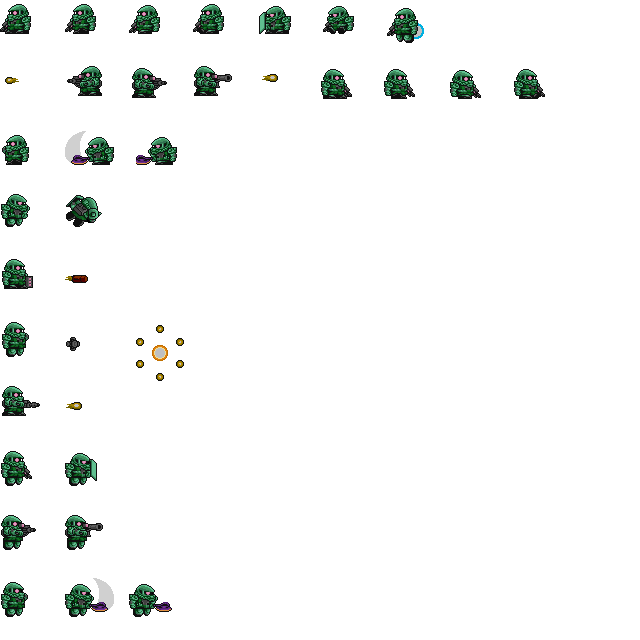
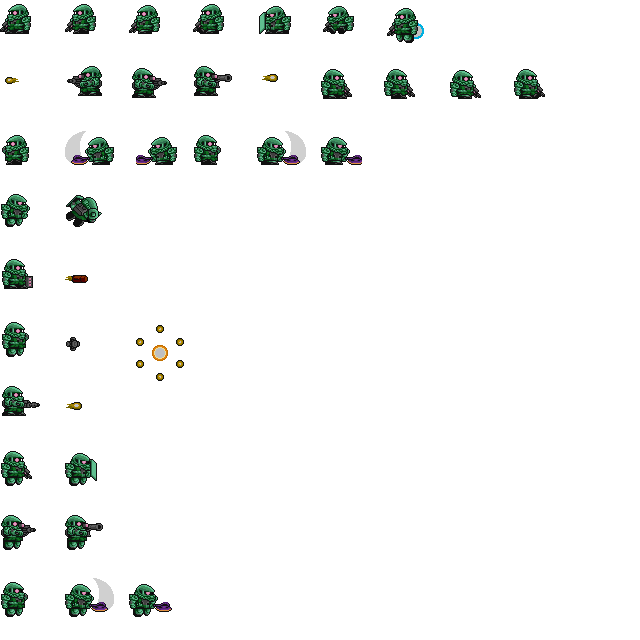
Game is now pausible, added background for pausemenu, corrected melee attacking for both player and AI

Changed region(s): [[0.4062, 0.1875, 0.5625, 0.2812], [0.2812, 0.1875, 0.3438, 0.2812]]

diff --git a/GundamSD/Models/ModelWeapons/MeleeWeapon.cs b/GundamSD/Models/ModelWeapons/MeleeWeapon.cs
@@ -1,4 +1,5 @@
-using System.Collections.Generic;
+using System;
+using System.Collections.Generic;
 using GundamSD.Maps;
 using Microsoft.Xna.Framework;
 
@@ -8,11 +9,14 @@ namespace GundamSD.Models
     {
         private Rectangle _hitBox;
         public virtual Rectangle HitBox { get => _hitBox; }
-        public List<int> AttackFrames { get; set; }
 
-        public MeleeWeapon(ISprite sprite, int damage, int range, List<int> attackFrames) : base(sprite, damage, range)
+        public List<int> AttackFramesRight { get; set; }
+        public List<int> AttackFramesLeft { get; set; }
+
+        public MeleeWeapon(ISprite sprite, int damage, int range, List<int> attackFramesRight, List<int> attackFramesLeft) : base(sprite, damage, range)
         {
-            AttackFrames = attackFrames;
+            AttackFramesRight = attackFramesRight;
+            AttackFramesLeft = attackFramesLeft;
         }
 
         public override void DealDamage(MapManager mapManager, GameTime gameTime)
@@ -20,16 +24,18 @@ namespace GundamSD.Models
             if (Sprite is IHasInput hasInput && hasInput.Inputs.KeyIsHoldDown(hasInput.Inputs.Melee))
             {
                 Sprite.AtlasManager.IsMeleeAttacking = true;
-                _hitBox = new Rectangle(Sprite.HitBox.X, Sprite.HitBox.Y,
-                                        Sprite.HitBox.Width + Range, Sprite.HitBox.Height);
+
+                GenerateHitbox();
+
+                List<int> attackFrames = DetermineAttackFrames();
 
                 ISprite target = Sprite.CollisionHandler.GetOtherSprite(_hitBox, mapManager);
 
                 if (target is IHasHealth hasHealth)
                 {
-                    for (int i = 0; i < AttackFrames.Count; i++)
+                    for (int i = 0; i < attackFrames.Count; i++)
                     {
-                        if (AttackFrames[i] == Sprite.AtlasManager.AtlasPlayer.CurrentFrame && target != null)
+                        if (attackFrames[i] == Sprite.AtlasManager.AtlasPlayer.CurrentFrame && target != null)
                         {
                             hasHealth.HealthHandler.TakeDamage(Damage);
 
@@ -46,6 +52,29 @@ namespace GundamSD.Models
             else
             {
                 Sprite.AtlasManager.IsMeleeAttacking = false ;
+            }
+        }
+
+        public List<int> DetermineAttackFrames()
+        {
+            if (Sprite.Mover.IsMovingRight)
+                return AttackFramesRight;
+            else
+                return AttackFramesLeft;
+
+        }
+
+        public virtual void GenerateHitbox()
+        {
+            if (Sprite.Mover.IsMovingRight)
+            {
+                _hitBox = new Rectangle(Sprite.HitBox.X, Sprite.HitBox.Y,
+                                    Sprite.HitBox.Width + Range, Sprite.HitBox.Height);
+            }
+            else if (Sprite.Mover.IsMovingLeft)
+            {
+                _hitBox = new Rectangle(Sprite.HitBox.X - Range, Sprite.HitBox.Y,
+                                    Sprite.HitBox.Width + Range, Sprite.HitBox.Height);
             }
         }
     }

diff --git a/GundamSD/Models/ModelWeapons/MeleeWeaponAI.cs b/GundamSD/Models/ModelWeapons/MeleeWeaponAI.cs
@@ -1,4 +1,5 @@
-using System.Collections.Generic;
+using System;
+using System.Collections.Generic;
 using GundamSD.Maps;
 using Microsoft.Xna.Framework;
 
@@ -9,15 +10,14 @@ namespace GundamSD.Models
         private Rectangle _hitBox;
         public override Rectangle HitBox { get => _hitBox; }
 
-        public MeleeWeaponAI(ISprite sprite, int damage, int range, List<int> attackFrames) : base(sprite, damage, range, attackFrames)
+        public MeleeWeaponAI(ISprite sprite, int damage, int range, List<int> attackFramesRight, List<int> attackFramesLeft) : base(sprite, damage, range, attackFramesRight, attackFramesLeft)
         {
         }
 
         public override void DealDamage(MapManager mapManager, GameTime gameTime)
         {
-            //Sprite.AtlasManager.IsMeleeAttacking = true;
-            _hitBox = new Rectangle(Sprite.HitBox.X - Range, Sprite.HitBox.Y,
-                                        Sprite.HitBox.Width + Range, Sprite.HitBox.Height);
+            Console.WriteLine("Moving right: " + Sprite.Mover.IsMovingRight + "   Moving left: " + Sprite.Mover.IsMovingLeft);
+            GenerateHitbox();
 
             ISprite target = Sprite.CollisionHandler.GetOtherSprite(_hitBox, mapManager);
 
@@ -25,9 +25,11 @@ namespace GundamSD.Models
             {
                 Sprite.AtlasManager.IsMeleeAttacking = true;
 
-                for (int i = 0; i < AttackFrames.Count; i++)
+                List<int> attackFrames = DetermineAttackFrames();
+
+                for (int i = 0; i < attackFrames.Count; i++)
                 {
-                    if (AttackFrames[i] == Sprite.AtlasManager.AtlasPlayer.CurrentFrame && target != null)
+                    if (attackFrames[i] == Sprite.AtlasManager.AtlasPlayer.CurrentFrame && target != null)
                     {
                         hasHealth.HealthHandler.TakeDamage(Damage);
 
@@ -40,6 +42,20 @@ namespace GundamSD.Models
                 //base.DealDamage(mapManager);
             } else
                 Sprite.AtlasManager.IsMeleeAttacking = false;
+        }
+
+        public override void GenerateHitbox()
+        {
+            if (Sprite.Mover.IsMovingRight)
+            {
+                _hitBox = new Rectangle(Sprite.HitBox.X, Sprite.HitBox.Y,
+                                    Sprite.HitBox.Width + Range, Sprite.HitBox.Height);
+            }
+            else if (Sprite.Mover.IsMovingLeft)
+            {
+                _hitBox = new Rectangle(Sprite.HitBox.X - Range, Sprite.HitBox.Y,
+                                    Sprite.HitBox.Width + Range, Sprite.HitBox.Height);
+            }
         }
     }
 }

diff --git a/GundamSD/StateManagement/GameStates/PauseMenu.cs b/GundamSD/StateManagement/GameStates/PauseMenu.cs
@@ -1,0 +1,86 @@
+using System;
+using System.Collections.Generic;
+using System.Linq;
+using System.Text;
+using System.Threading.Tasks;
+using GundamSD.UI;
+using Microsoft.Xna.Framework;
+using Microsoft.Xna.Framework.Content;
+using Microsoft.Xna.Framework.Graphics;
+
+namespace GundamSD.StateManagement.GameStates
+{
+    public class PauseMenu : GameState
+    {
+        private Texture2D _background;
+        private List<Button> _buttons;
+
+        public PauseMenu(Game1 game, GraphicsDevice graphicsDevice, GraphicsDeviceManager graphicsDeviceManager) : base(game, graphicsDevice, graphicsDeviceManager)
+        {
+        }
+
+        public override void Initialize()
+        {
+            if (!Game.IsMouseVisible)
+            {
+                Game.IsMouseVisible = true;
+            }
+        }
+
+        public override void LoadContent(ContentManager content)
+        {
+            _background = content.Load<Texture2D>("UI/PauseMenuBackground");
+
+            Texture2D btnTexture = content.Load<Texture2D>("UI/Button");
+            SpriteFont font = content.Load<SpriteFont>("Font");
+
+            Button resumeGameBtn = new Button(btnTexture, font, "Resume", new Vector2(950, 150));
+            resumeGameBtn.Click += ResumeGameBtn_Click;
+
+            Button quitBtn = new Button(btnTexture, font, "Quit", new Vector2(950, 350));
+            quitBtn.Click += QuitBtn_Click;
+
+            _buttons = new List<Button>()
+            {
+                resumeGameBtn,
+                quitBtn
+            };
+        }
+
+        private void QuitBtn_Click(object sender, EventArgs e)
+        {
+            Game.Exit();
+        }
+
+        private void ResumeGameBtn_Click(object sender, EventArgs e)
+        {
+            GameStateManager.Instance.RemoveState();
+        }
+
+        public override void UnloadContent()
+        {
+        }
+
+        public override void Update(GameTime gameTime)
+        {
+            foreach (Button btn in _buttons)
+            {
+                btn.Update(gameTime);
+            }
+        }
+
+        public override void Draw(SpriteBatch spriteBatch)
+        {
+            spriteBatch.Begin();
+
+            spriteBatch.Draw(_background, new Rectangle(0, 0, 1600, 800), Color.DimGray);
+
+            foreach (Button btn in _buttons)
+            {
+                btn.Draw(spriteBatch);
+            }
+
+            spriteBatch.End();
+        }
+    }
+}

diff --git a/GundamSD/Models/Player/Player.cs b/GundamSD/Models/Player/Player.cs
@@ -28,7 +28,8 @@ namespace GundamSD.Models
             IAnimationAtlasAction WalkRight = Factory.CreateAnimAtlasAction(0, 3, false);
             IAnimationAtlasAction WalkLeft = Factory.CreateAnimAtlasAction(15, 18, false);
             IAnimationAtlasAction Jump = Factory.CreateAnimAtlasAction(5, 7, true);
-            IAnimationAtlasAction Melee = Factory.CreateAnimAtlasAction(30, 38, false);
+            IAnimationAtlasAction MeleeRight = Factory.CreateAnimAtlasAction(30, 38, false);
+            IAnimationAtlasAction MeleeLeft = Factory.CreateAnimAtlasAction(90, 98, false);
             IAnimationAtlasAction BlockRight = Factory.CreateAnimAtlasAction(4, 4, true);
             IAnimationAtlasAction BlockLeft = Factory.CreateAnimAtlasAction(14, 14, true);
             IAnimationAtlasAction RangedRight = Factory.CreateAnimAtlasAction(10, 10, true);
@@ -38,7 +39,8 @@ namespace GundamSD.Models
                 { "WalkRight", WalkRight },
                 { "WalkLeft", WalkLeft },
                 { "Jump", Jump },
-                { "Melee", Melee },
+                { "MeleeRight", MeleeRight },
+                { "MeleeLeft", MeleeLeft },
                 { "RangedRight", RangedRight },
                 { "RangedLeft", RangedLeft },
                 { "BlockRight", BlockRight },
@@ -50,8 +52,9 @@ namespace GundamSD.Models
             MaxHealth = 100;
             HealthHandler = Factory.CreateHealthHandler(this, Color.Green);
 
-            List<int> attackFrames = new List<int>() { 31, 34, 37 };
-            MeleeWeapon = new MeleeWeapon(this, 1, 20, attackFrames);
+            List<int> attackFramesRight = new List<int>() { 31, 34, 37 };
+            List<int> attackFramesLeft = new List<int>() { 91, 94, 97 };
+            MeleeWeapon = new MeleeWeapon(this, 1, 20, attackFramesRight, attackFramesLeft);
 
             RangedWeapon = new RangedWeapon(this, 10, 20, 300f);
 

diff --git a/GundamSD/Models/Enemies/GruntMelee.cs b/GundamSD/Models/Enemies/GruntMelee.cs
@@ -18,13 +18,16 @@ namespace GundamSD.Models
 
         public GruntMelee(Texture2D atlasTexture) : base(atlasTexture)
         {
-            IAnimationAtlasAction Melee = Factory.CreateAnimAtlasAction(20, 22, false);
-            Actions.Add("Melee", Melee);
+            IAnimationAtlasAction MeleeRight = Factory.CreateAnimAtlasAction(23, 25, false);
+            IAnimationAtlasAction MeleeLeft = Factory.CreateAnimAtlasAction(20, 22, false);
+            Actions.Add("MeleeRight", MeleeRight);
+            Actions.Add("MeleeLeft", MeleeLeft);
 
             Mover = new MoverAI(this, false);
 
-            List<int> AttackFrames = new List<int>() { 21 };
-            MeleeWeapon = new MeleeWeaponAI(this, 1, 20, AttackFrames);
+            List<int> attackFramesRight = new List<int>() { 24 };
+            List<int> attackFramesLeft = new List<int>() { 21 };
+            MeleeWeapon = new MeleeWeaponAI(this, 1, 20, attackFramesRight, attackFramesLeft);
         }
 
         public override void Update(GameTime gameTime, MapManager mapManager)

diff --git a/GundamSD/StateManagement/GameStates/TutorialLevel.cs b/GundamSD/StateManagement/GameStates/TutorialLevel.cs
@@ -9,6 +9,7 @@ using GundamSD.Models;
 using Microsoft.Xna.Framework;
 using Microsoft.Xna.Framework.Content;
 using Microsoft.Xna.Framework.Graphics;
+using Microsoft.Xna.Framework.Input;
 using TiledSharp;
 
 namespace GundamSD.StateManagement.GameStates
@@ -77,6 +78,13 @@ namespace GundamSD.StateManagement.GameStates
 
             _camera.Follow(_sprites[0]);
             _scoreDisplayer.Update();
+
+            KeyboardState keyboardState = Keyboard.GetState();
+            if (keyboardState.IsKeyDown(Keys.Escape))
+            {
+                GameState pauseMenu = new PauseMenu(Game, _graphicsDevice, _graphicsDeviceManager);
+                GameStateManager.Instance.ChangeState(pauseMenu);
+            }
         }
 
         public override void Draw(SpriteBatch spriteBatch)

diff --git a/GundamSD/Animations/AnimationAtlasManager.cs b/GundamSD/Animations/AnimationAtlasManager.cs
@@ -33,8 +33,10 @@ namespace GundamSD.Animations
             IHasInput hasInput = _sprite as IHasInput;
 
 
-            if (IsMeleeAttacking)
-                AtlasPlayer.Play(_actions["Melee"]);
+            if (IsMeleeAttacking && _sprite.Mover.IsMovingRight)
+                AtlasPlayer.Play(_actions["MeleeRight"]);
+            else if (IsMeleeAttacking && _sprite.Mover.IsMovingLeft)
+                AtlasPlayer.Play(_actions["MeleeLeft"]);
             else if (IsRangedAttacking && _sprite.Mover.IsMovingRight)
                 AtlasPlayer.Play(_actions["RangedRight"]);
             else if (IsRangedAttacking && _sprite.Mover.IsMovingLeft)

diff --git a/GundamSD/Models/Health/HealthHandler.cs b/GundamSD/Models/Health/HealthHandler.cs
@@ -42,7 +42,6 @@ namespace GundamSD.Models
         public void Update()
         {
             int healthPercentage = (int)Math.Round((double)(100 * _currentHealth) / _maxHealth);
-            Console.WriteLine(healthPercentage);
             HealthBar = new Rectangle((int)_sprite.Position.X - 6, (int)_sprite.Position.Y - 20, healthPercentage / 2, 5);
         }
 

diff --git a/GundamSD/Models/ModelWeapons/IMeleeWeapon.cs b/GundamSD/Models/ModelWeapons/IMeleeWeapon.cs
@@ -5,7 +5,11 @@ namespace GundamSD.Models
 {
     public interface IMeleeWeapon
     {
-        List<int> AttackFrames { get; set; }
+        List<int> AttackFramesRight { get; set; }
+        List<int> AttackFramesLeft { get; set; }
         Rectangle HitBox { get; }
+
+        List<int> DetermineAttackFrames();
+        void GenerateHitbox();
     }
 }

diff --git a/GundamSD/Movement/Mover.cs b/GundamSD/Movement/Mover.cs
@@ -24,7 +24,7 @@ namespace GundamSD.Movement
         private const float _gravity = 9.81f;
         private const float _frameSpeed = 0.15f;
 
-        private float _jumpHeight = 10f;
+        private float _jumpHeight = 12f;
         private Vector2 _jumpVelocity;
         private float gravity = -9.81f;
         private bool _isJumping;

diff --git a/GundamSD/StateManagement/GameStateManager.cs b/GundamSD/StateManagement/GameStateManager.cs
@@ -64,7 +64,7 @@ namespace GundamSD.StateManagement
 
         public void ChangeState(GameState gameState)
         {
-            ClearStates();
+            //ClearStates();
             AddState(gameState);
         }
 
